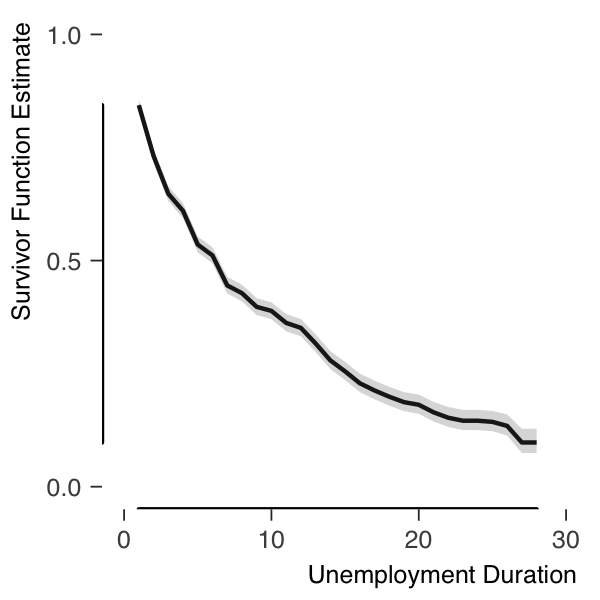
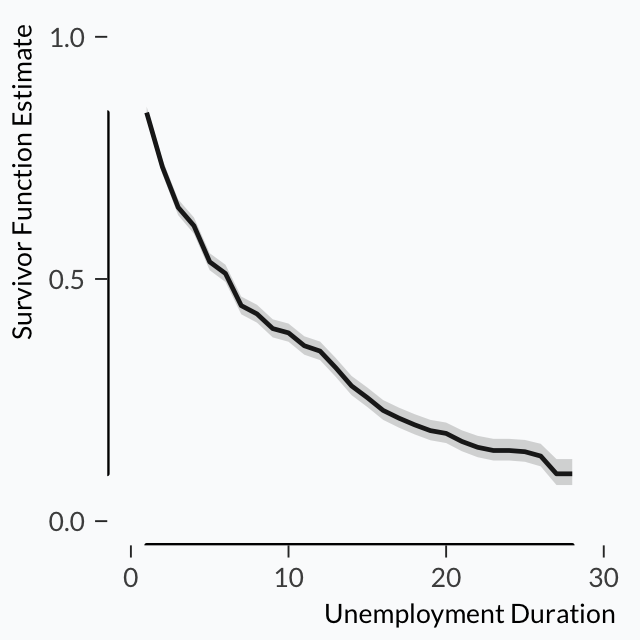
adjust font sizes

diff --git a/_posts/2021-04-12-Survival-Analysis.md b/_posts/2021-04-12-Survival-Analysis.md
@@ -101,21 +101,10 @@ insurance appears to be evenly split among observations." %}
 |`logwage` |`double`  |         |                   |2.71  |5.69  |7.60  |0.54  |
 |`tenure`  |`integer` |         |                   |0.00  |4.11  |40.00 |5.86  |
 
-{% marginfigure 'fig3' 'assets/unemp/rates_density.png' "**Figure 3**: Densities of
-`reprate` and `disrate`." %}
-
 {% marginfigure 'fig3' 'assets/unemp/age_hist.png' '**Figure 3**: Distribution
 of `age`. Bin width is set at 2 to reduce the number of bars in the graph.
 A majority of respondents is under 40 years of age, 2.231 in fact, which
 corresponds to 68% of all observations.'  %}
-
-{% marginfigure 'reprate_hist' "assets/unemp/reprate_hist.png"
-"Distribution of `reprate`. deriving the unique value via
-`length(unique(data$reprate))` actually shows that the variable, with 3.343
-observations, only has 419 unique values, suggesting that the replacement isn't
-necessarily continuous. Without much more info about the rate, and
-considering the relatively large amount of unique values, we're going to
-treat `reprate` as continuous."  %}
 
 ## Censoring and Flow Sampling
 
@@ -133,13 +122,17 @@ typically deal with one of the following censoring mechanisms:
 <tr><td><strong>interval-censoring</strong></td><td>Spell has ended at censor time $c$, but time $t$ is unknown. What is known is that $t$ is somewhere in the interval $[t_1^*,t_2^*]$.</td></tr>
 </table>
 
-{% maincolumn 'assets/unemp/spell_censor4.png' "`censor4` over the values
+{% maincolumn 'assets/unemp/spell_censor4.png' "**Figure 4**: `censor4` over the values
 of `spell`. Unsurprisingly, the length of the spell appear to correspond to
 a greater chance of an observation being censored, which aligns with the
 conventional wisdom that unemployment is harder to escape the longer one is
 in it, making a spell exceed the sampling period. The correlation
 coefficient between `censor4` and `spell` is 0.31, which adds evidence to
 the previous statement." %}
+
+
+{% marginfigure 'fig3' 'assets/unemp/rates_density.png' "**Figure 5**: Densities of
+`reprate` and `disrate`." %}
 
 {% marginfigure 'logwage_hist' 'assets/unemp/logwage_hist.png' ''  %}
 
